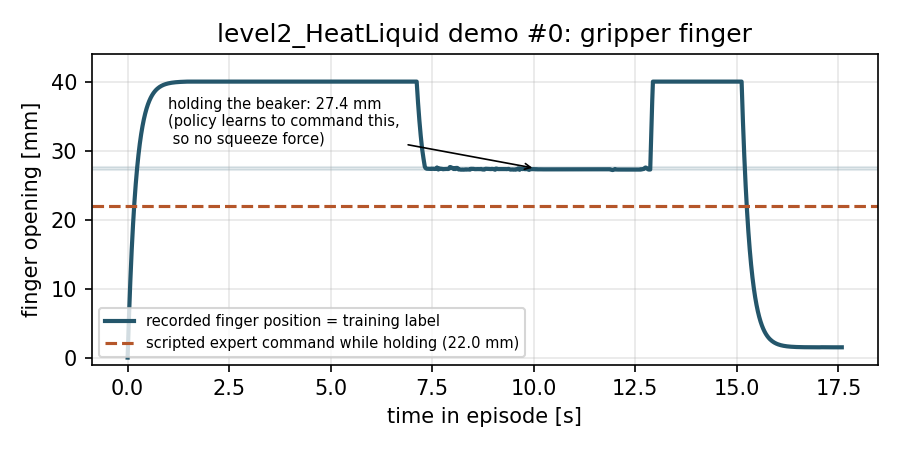
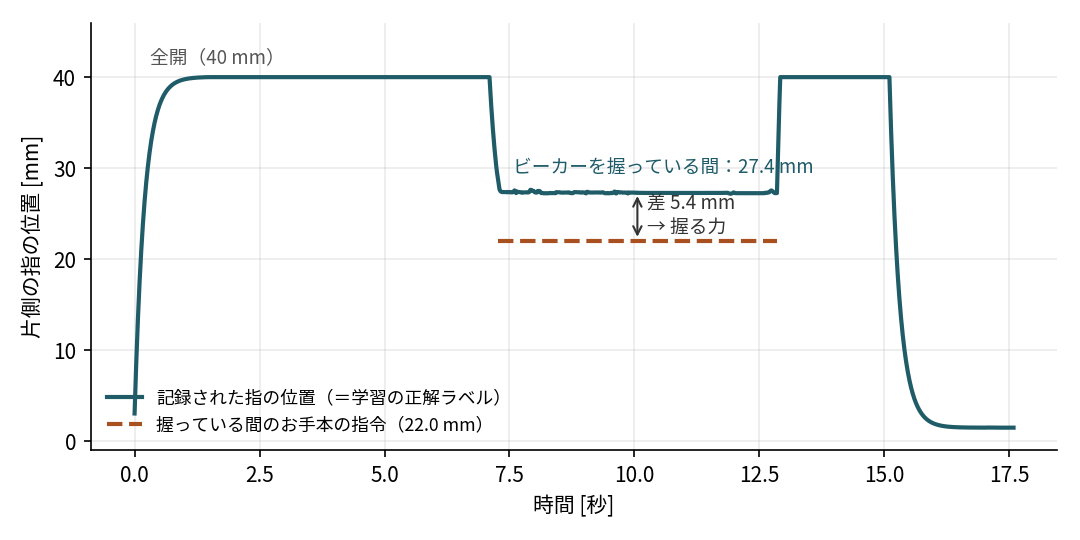
Correct the gripper finger value: one finger's position, not the beaker width
The recorded 0.0274 is one finger's distance from the centre (the beaker is
about 55 mm wide); the 0.006 squeeze is the expert's 0.0054 gap rounded.
The label-gap figure is redrawn with that axis and Japanese labels.

Claude-Session: https://claude.ai/code/session_01VShbc68S948h3VzQS257k4

Changed region(s): [[0.0, 0.0311, 0.9956, 0.9644], [0.56, 0.6844, 0.5911, 0.7156], [0.0, 0.6844, 0.0311, 0.7156]]

diff --git a/docs/dgx-spark-notes.md b/docs/dgx-spark-notes.md
@@ -147,7 +147,7 @@ USDの解析ライブラリ `pxr`（USD 0.26）で、全USDレイヤを解析し
 **失敗の原因**
 
 1. **上流の成功判定の不具合**：`placepress_controller.is_success()` が `self.current_phase == Phase.FINISHED`（比較）になっていて、エピソードが終わらず、`_last_success` も立たなかった。`patches/placepress-infer-success.patch` で直した。
-2. **把持力が出ない**：デモの `actions` は「次の時刻の関節角」なので、把持中の指の値はビーカーの幅（約0.0274）になる。お手本は0.022まで閉じる指令を出しており、その差が握る力になっていた。方策は約0.0274を指令するので、力がかからない。
+2. **把持力が出ない**：デモの `actions` は「次の時刻の関節角」なので、把持中の指の値は、ビーカーに当たって止まった位置（約0.0274）になる。指の値は片側の指の中心からの距離（m）で、ビーカーの幅は約55mmである。お手本は0.022まで閉じる指令を出しており、その差（0.0054）が握る力になっていた。方策は約0.0274を指令するので、力がかからない。
 
 **対策と結果**
 
